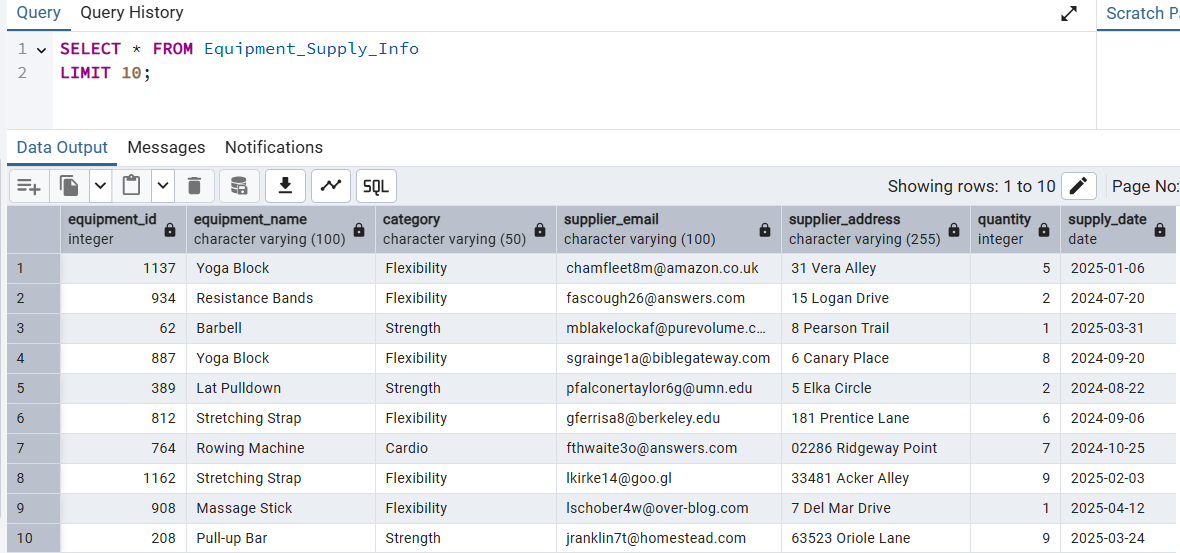
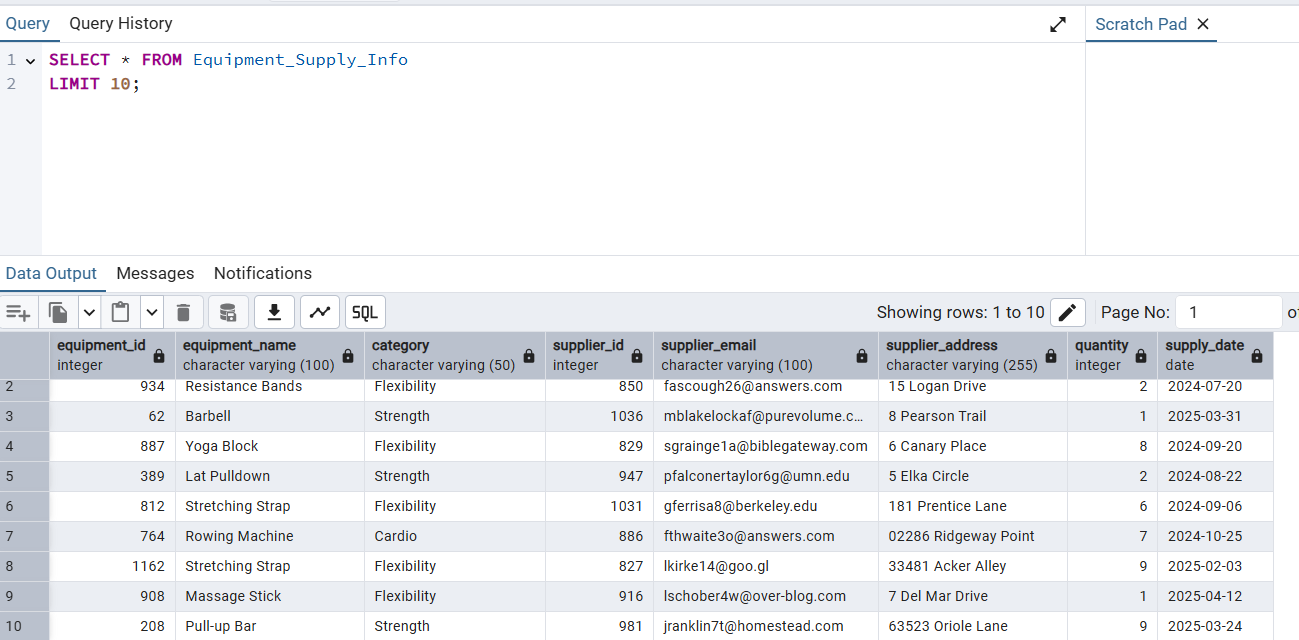
/

Changed region(s): [[0.0, 0.2459, 1.0, 1.0], [0.0, 0.0, 1.0, 0.1537]]

diff --git a/README.md b/README.md
@@ -668,8 +668,9 @@ WHERE supply_date > '2025-01-01';
 - ![query3](Stage_C/Views/View_2/query1.png)
 
 #### שאילתה 2: סיכום כמות הציוד שסופקה לפי ספק
-```SELECT supplier_email, SUM(quantity) AS total_quantity
+```SELECT supplier_id, SUM(quantity) AS total_quantity
 FROM Equipment_Supply_Info
-GROUP BY supplier_email;
+GROUP BY supplier_id
+ORDER BY total_quantity DESC;
 ```
 - ![query4](Stage_C/Views/View_2/query2.png)
